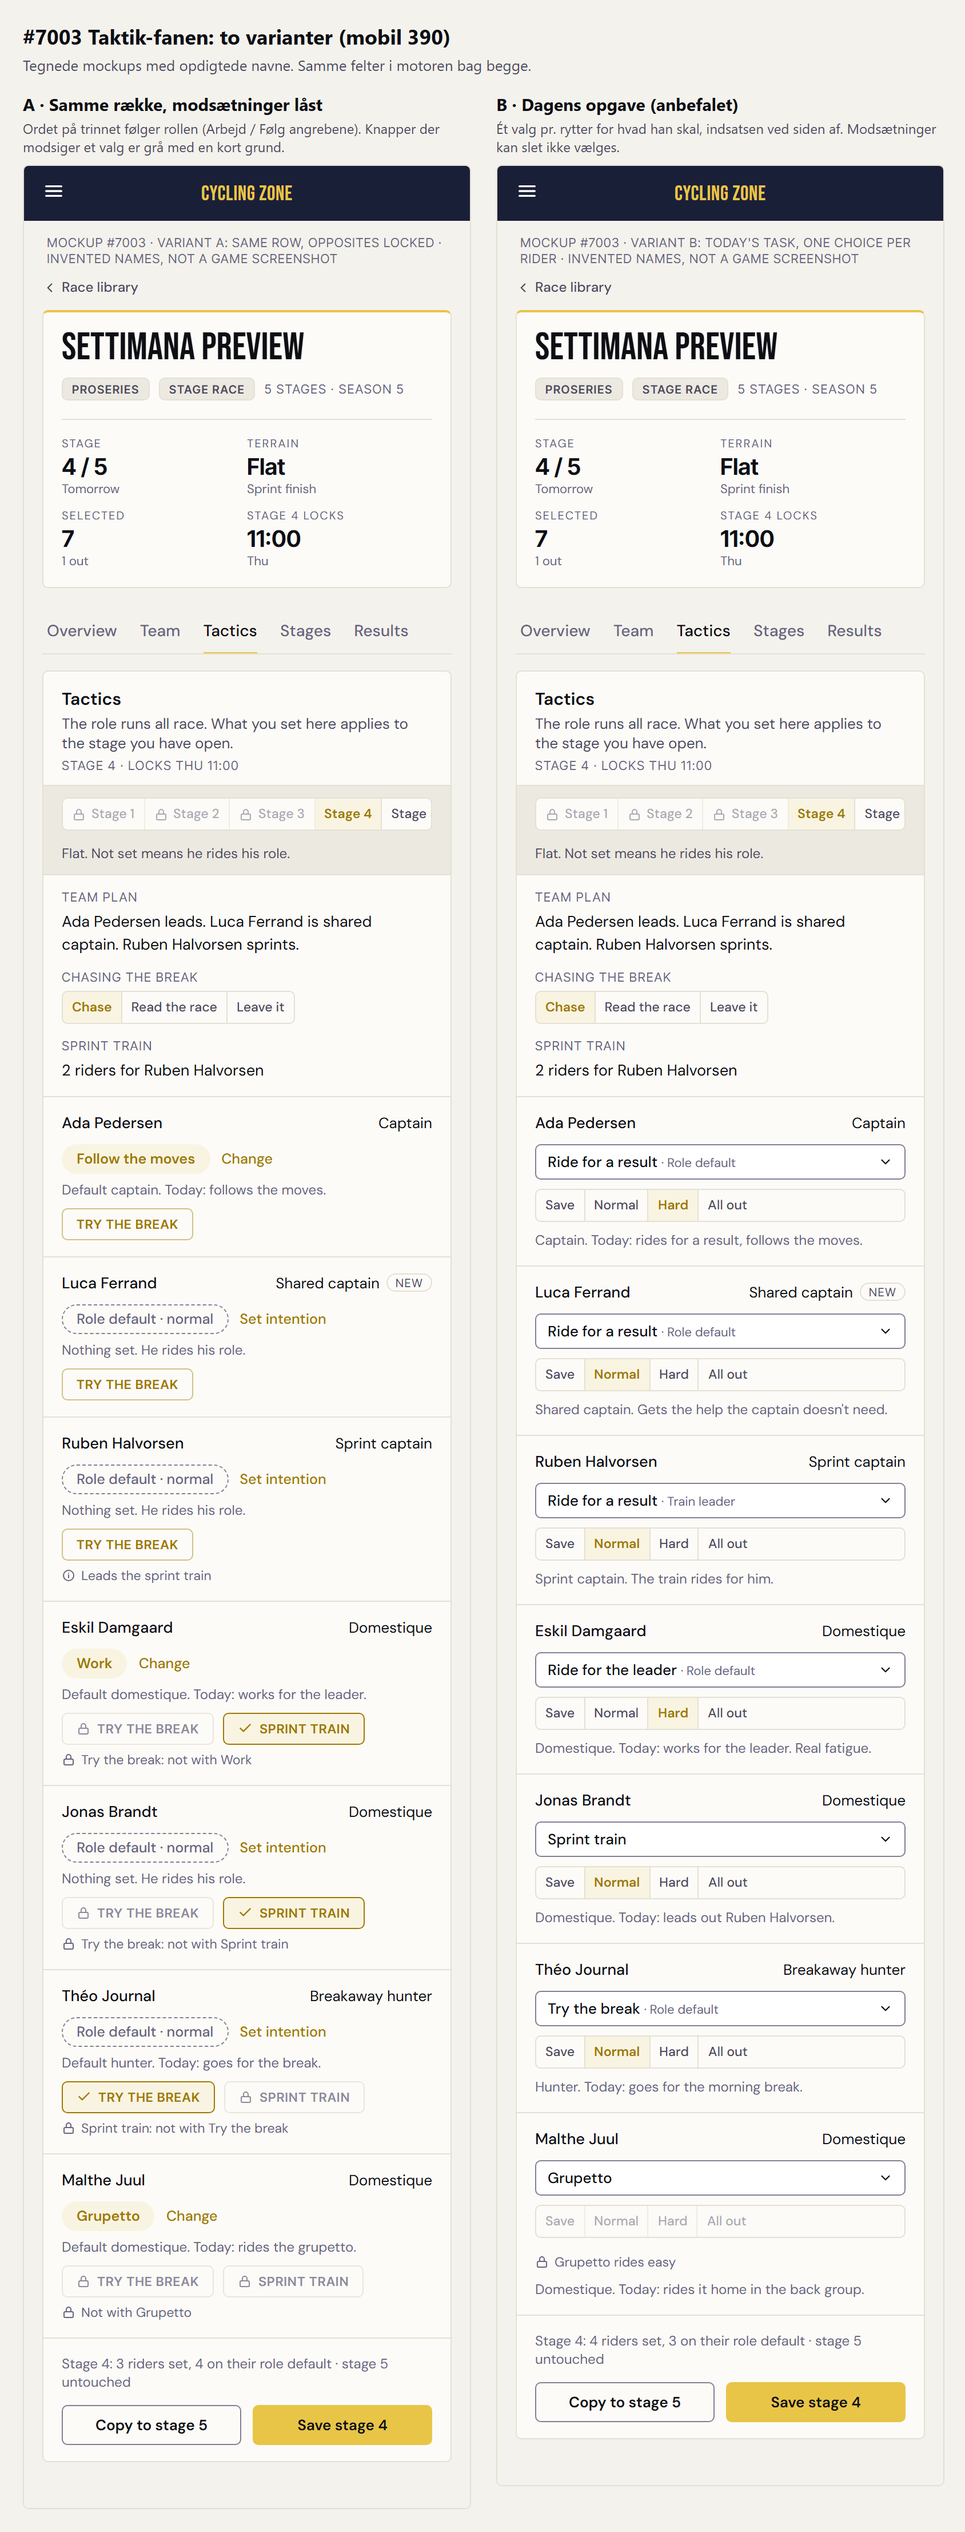
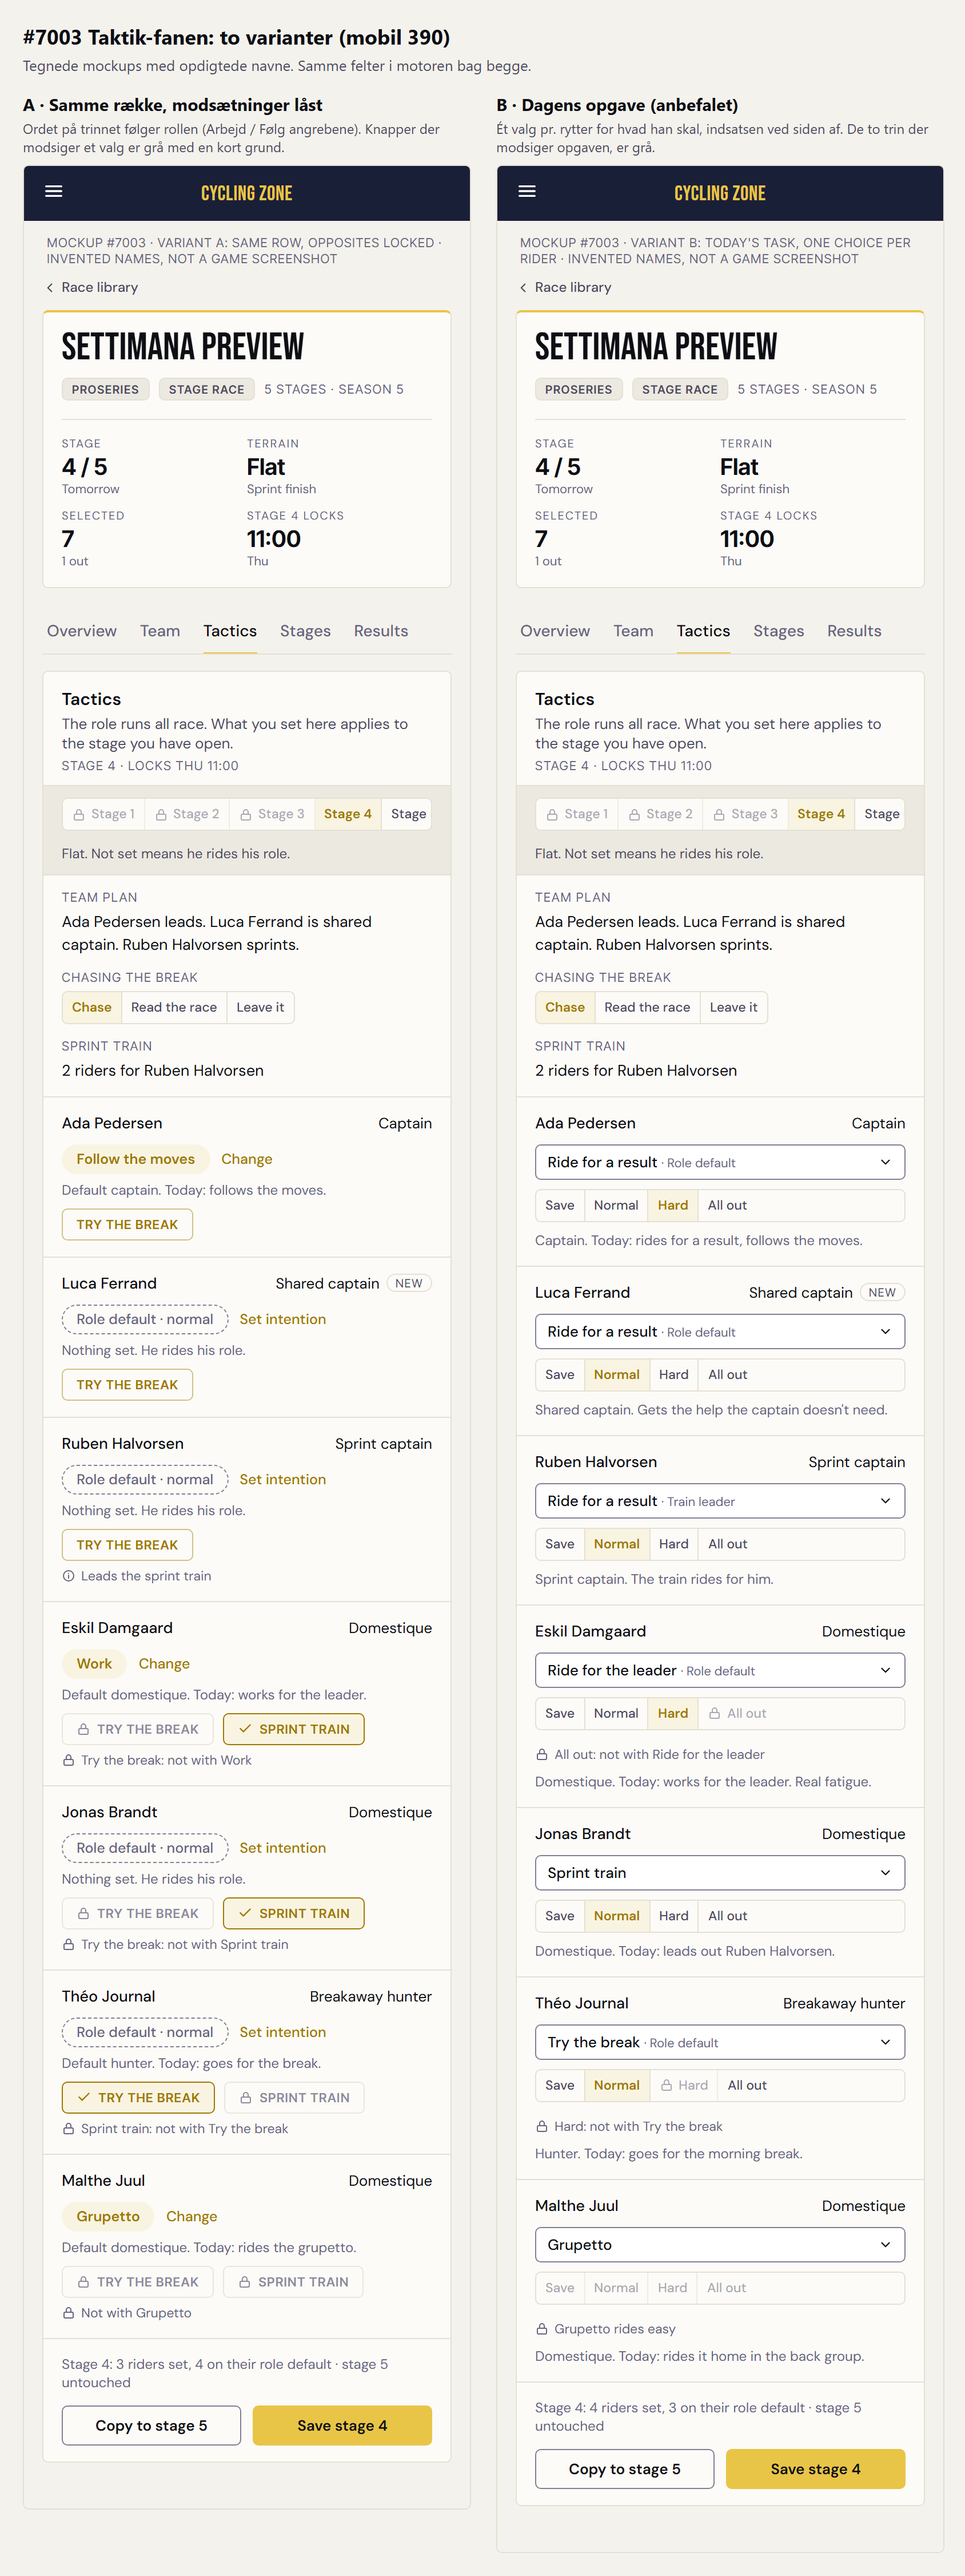
docs(7003): ret Codex-fund, opgave/indsats-spaerring og fri rolle uden sprinttog
Variant B spaerrer Haardt ved Forsoeg udbrud og Alt ud ved Koer for
lederen for hjaelper/jaeger. Sprinttoget tilbydes ikke fri rolle, fordi
fri rolles spontane udbrud er laast og tilladelsen ikke laeser toget.

Refs #7003

diff --git a/docs/superpowers/specs/2026-10-25-taktik-roller-design.md b/docs/superpowers/specs/2026-10-25-taktik-roller-design.md
@@ -48,6 +48,7 @@ Felterne er uændrede: `effort` (fem trin), `try_break`, `leadout` pr. rytter pr
 | Arbejd (`protect` for hjælper/jæger) + Forsøg udbrud | **Udelukket** | En hjælper i udbruddet kan ikke trække for kaptajnen i feltet. Han betaler for arbejde han ikke kan levere |
 | Sprinttog + Forsøg udbrud | **Udelukket** | Lead-out-folk sidder i feltet til finalen. Ingen hold sender toget i morgenudbrud |
 | Togets mål (spurtkaptajnen) i sit eget tog | **Udelukket** | Han er den der bliver trukket frem |
+| Fri rolle i sprinttoget | **Tilbydes ikke** | En fri rolle kan selv forsøge udbrud på normal (låst 30/9), og motorens udbrudstilladelse kigger ikke på toget. Lead-out-folk er hjælpere i virkeligheden. Så toget er kun for hjælper og jæger, og ingen motor-ændring er nødvendig |
 | Spar + Forsøg udbrud | Tilladt | Låst 30/9: forsøget koster normal pris |
 | Alt ud + Forsøg udbrud | Tilladt | Klassisk "alt eller intet"-dag |
 | Følg angrebene (`protect` for leder) + Forsøg udbrud | Tilladt | En kaptajn kan gå med i et langt angreb |
@@ -70,13 +71,20 @@ En mål-ordre siger **hvad** rytteren skal i dag; indsatsen siger **hvor hårdt*
 | Opgave (EN / DA) | Hvem kan vælge den | Felterne |
 |---|---|---|
 | Ride for the leader / Kør for lederen | hjælper, jæger | `try_break=false`, `leadout=false` |
-| Sprint train / Sprinttog | hjælper, jæger, fri rolle (ikke togets mål) | `leadout=true`, `try_break=false` |
+| Sprint train / Sprinttog | hjælper, jæger (ikke fri rolle, se §3) | `leadout=true`, `try_break=false` |
 | Try the break / Forsøg udbrud | alle | `try_break=true`, `leadout=false` |
 | Ride for a result / Kør for resultat | kaptajn, delt kaptajn, spurtkaptajn | `try_break=false`, `leadout=false` |
 | Free race / Frit løb | fri rolle | `try_break=false`, `leadout=false` (fri rolle kan stadig selv forsøge på normal, låst) |
 | Grupetto / Grupetto | alle undtagen kaptajn | `effort=grupetto`, `try_break=false`, `leadout=false` |
 
-Indsatsen vælges ved siden af (spar, normal, hårdt, alt ud) og er låst når opgaven er Grupetto. Senere opgaver fra Holdmødet (#5573, trøjejagt, angrebspunkt) kan lægges ind som nye punkter i samme liste uden at fladen skifter form. Trøjejagt er **ikke** med nu: motoren har den ikke (P11, intet opdigtet).
+Indsatsen vælges ved siden af (spar, normal, hårdt, alt ud) og er låst når opgaven er Grupetto. "Hårdt" er enum'et `protect`. Opgaven og indsatsen kan stadig modsige hinanden for en hjælper eller jæger, så to indsatstrin spærres efter opgaven (fladen gråer trinnet med en kort grund, og API'et afviser kombinationen, samme regler som §3):
+
+| Opgave for hjælper/jæger | Spærret indsats | Hvorfor |
+|---|---|---|
+| Forsøg udbrud | Hårdt | `protect` betyder "arbejd for lederen" for en hjælper; i udbruddet kan han ikke (§3) |
+| Kør for lederen | Alt ud | `all_out` fjerner hjælperens arbejde for lederen (RULES §2e); den hjælper der vil køre for sig selv, vælger en anden opgave |
+
+For ledere og fri rolle er alle fire trin åbne: deres `protect` er "følg angrebene"/"kør offensivt", ikke arbejde. Senere opgaver fra Holdmødet (#5573, trøjejagt, angrebspunkt) kan lægges ind som nye punkter i samme liste uden at fladen skifter form. Trøjejagt er **ikke** med nu: motoren har den ikke (P11, intet opdigtet).
 
 ## 5. Delt kaptajn i motoren
 
@@ -108,7 +116,7 @@ Holdudtagelsen kræver i dag en kaptajn. Forslaget: den kræver **en leder**, dv
 Begge bruger fanens skelet fra 6/9 (T3-side, Taktik-fanen, én guldknap "Save stage N", hairlines, 5 px radius, ingen tal). De adskiller sig kun i rytter-rækken.
 
 - **Variant A, "Samme række, spærrede modsætninger":** intentions-chippen og pillerne "Try the break" og "Sprint train" bliver. Trinnet `protect` hedder Arbejd/Følg angrebene/Kør offensivt efter rollen. En pille der modsiger et andet valg er grå med en låse-ikon-linje ("Not with Work"). Mindst at bygge.
-- **Variant B, "Dagens opgave":** én vælger "Task" pr. rytter (tabellen i §4) + indsats ved siden af (spar, normal, hårdt, alt ud). Modsætninger kan ikke opstå. Lidt mere at bygge, men samme felter bag, og den kan bære Holdmødets opgaver senere.
+- **Variant B, "Dagens opgave":** én vælger "Task" pr. rytter (tabellen i §4) + indsats ved siden af (spar, normal, hårdt, alt ud). Opgaverne udelukker hinanden af sig selv, og de to indsatstrin der modsiger opgaven, er grå (§4). Lidt mere at bygge, men samme felter bag, og den kan bære Holdmødets opgaver senere.
 
 Filer: `pr-screens/7003/a-desktop-1440.png`, `a-mobile-390.png`, `b-desktop-1440.png`, `b-mobile-390.png`, og `oversigt.png` (begge side om side til telefonen). Tegnede mockups med opdigtede navne, ikke skærmbilleder af spillet. Den rigtige flade skal godkendes på preview før merge.
 
@@ -119,7 +127,7 @@ Filer: `pr-screens/7003/a-desktop-1440.png`, `a-mobile-390.png`, `b-desktop-1440
    **Anbefaling A.** Det er det egomadsen og ejeren beskrev: en mellemting mellem kaptajn og hjælper. Et stort hold med mange hjælpere kan beskytte to, et lille kan ikke, ligesom i virkeligheden. Med B bliver rollen bare "to kaptajner", og kaptajnen mister værdi.
 2. **Hvordan skal arbejd og angrib deles op på fladen?**
    A: Samme række som i dag, ordet følger rollen, og modsatte knapper bliver grå. B: "Dagens opgave": ét valg pr. rytter for hvad han skal, og indsatsen ved siden af.
-   **Anbefaling B.** Modsætninger kan slet ikke vælges, rækken bliver kortere på mobil, og det er samme felter bag, så motoren røres ikke. Holdmødets kommende opgaver får plads uden ny flade. A er kun bedre hvis det skal være live i morgen.
+   **Anbefaling B.** Udbrud, tog og grupetto kan slet ikke vælges sammen, kun to indsatstrin skal spærres, rækken bliver kortere på mobil, og det er samme felter bag, så motoren røres ikke. Holdmødets kommende opgaver får plads uden ny flade. A er kun bedre hvis det skal være live i morgen.
 3. **Må et hold stille op med kun en spurtkaptajn som leder (ingen kaptajn)?**
    A: Ja. B: Nej, kaptajn kræves stadig.
    **Anbefaling A.** Et sprinterhold i et fladt endagsløb har i virkeligheden kun sprinteren som leder. I dag må spillerne sætte en falsk kaptajn for at få toget til at virke. Motoren kan det allerede.
